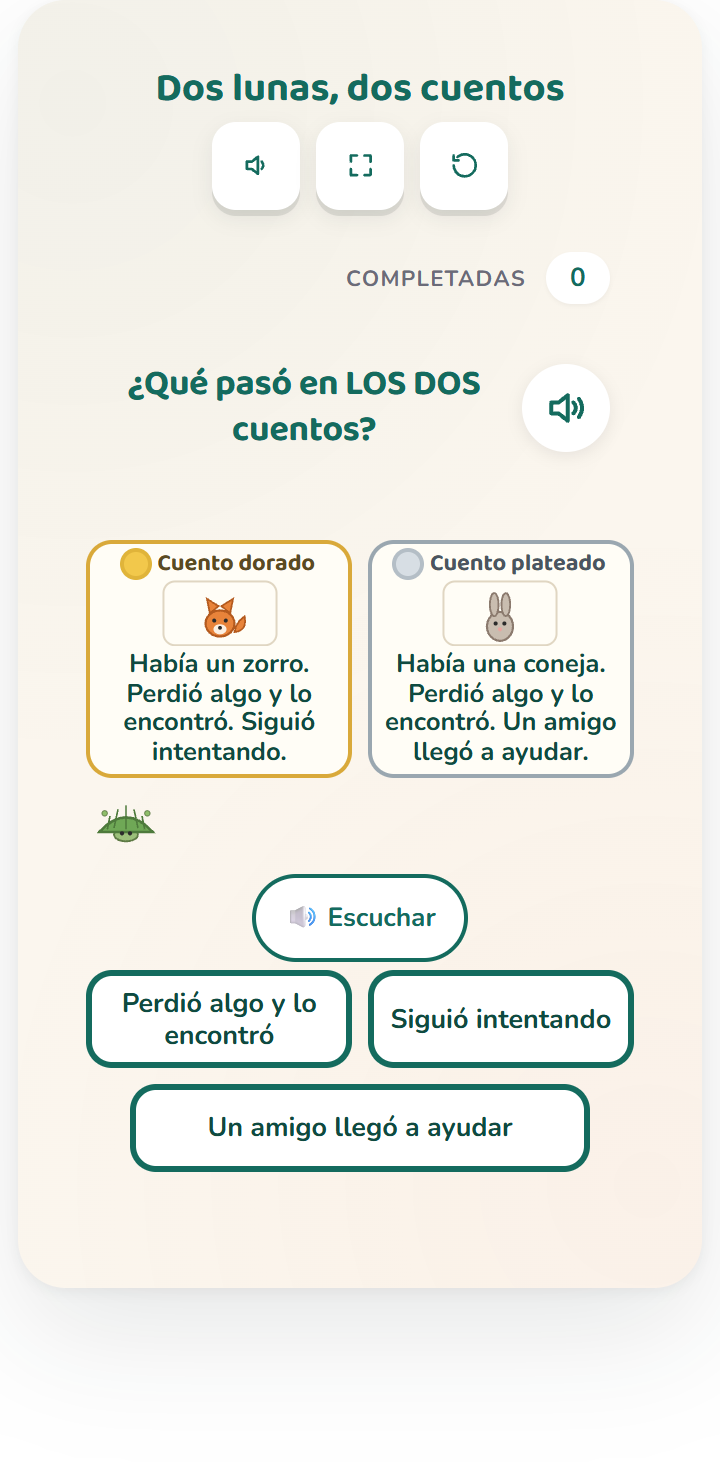
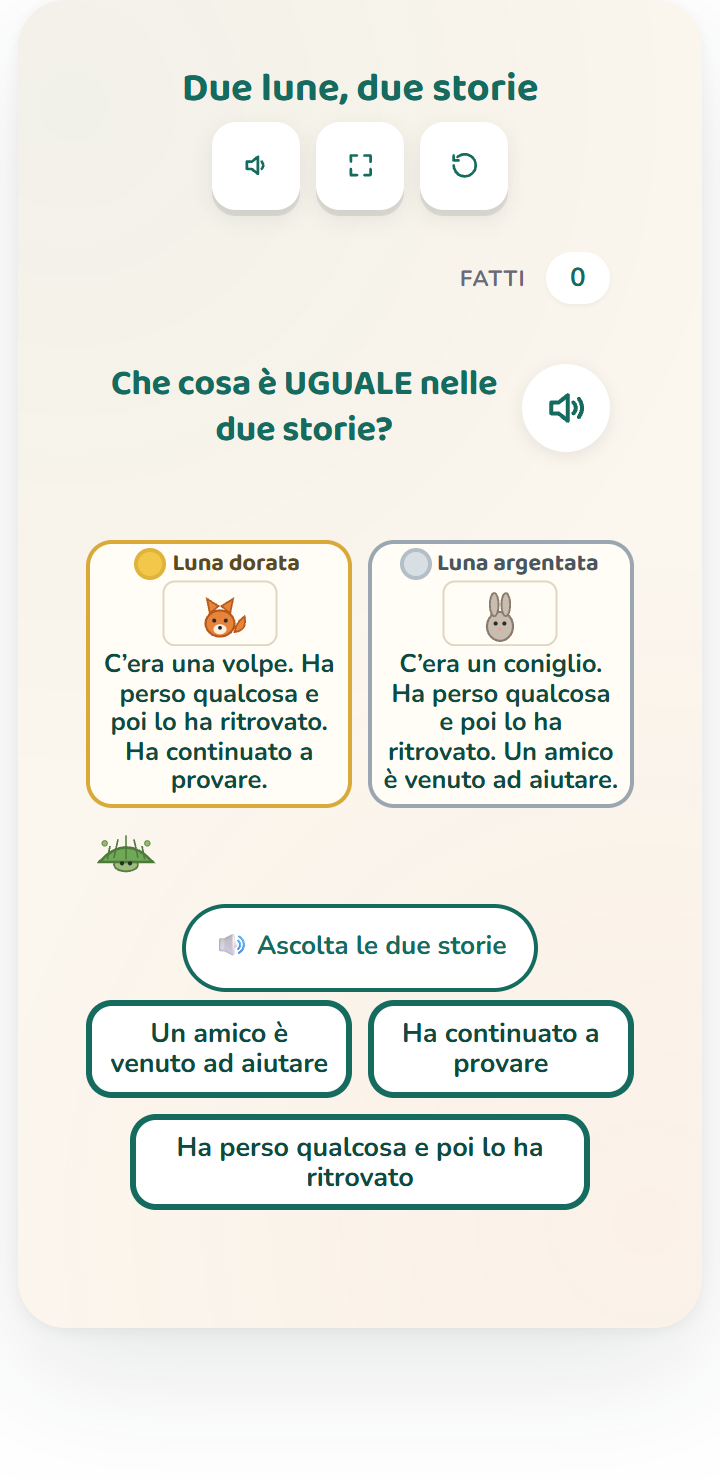
[FEATURE][I18N][IT] two-tales #96 — Due lune, due storie (confrontare due storie: uguale/diverso / Comprensione di testi narrativi, classe seconda)
Italian fan-out of the RL.1.9 compare-two-stories activity (rebuild for the
Indicazioni nazionali, framework name only). Activity-layer only: L.it (10
keys) + strings.title/instruction/q.it (mascot «Barbamuschio»); manifest
tagTextL10n.it (6 experience labels; SHARED trimmed to «Ha condiviso» per
pedagogue, distinct from GOT_HELP) + storiesL10n.it (6 summaries reusing the
tag labels verbatim, gender-neutral avere+PP) + slug/page_title/page_intro.it;
it.json prose (156 activities); page.tsx GRADE it:'2' (classe seconda, cross-
text comparison) + STRAND it:'Comprensione di testi narrativi' (route override,
strand-names.ts untouched) + wrapper 9.548.

0 lines to two-tales-core.js / lcs-shell.* / Direction-A CSS / strand-names.ts.
§A.13.62 LOCAL DoD green (core-loaded it facts 9/9 rounds, both modes, faithful
summaries; verify-two-tales-core PASS; verify-activity-content-it 156/0-leak;
preflight-routes PASS; tsc clean; visual-qa it+en 54 renders 6 viewports PASS;
personal Read 768/1024/360). NO deploy.

diff --git a/frontend/app/[locale]/activities/[slug]/page.tsx b/frontend/app/[locale]/activities/[slug]/page.tsx
@@ -55,7 +55,7 @@ const GRADE_OVERRIDE: Record<string, Record<string, string>> = {
   'contraction.apostrophe.l-2-2-c': { de: '3', pt: '2' },                // pt REBUILT (apóstrofo não existe em contração pt) como contração OBRIGATÓRIA prep+artigo a→ao/à e em→no/na (NUNCA de→do/da, que é #99 posse) = BNCC "Construção do sistema alfabético e da ortografia" 2º ano; = es 2º / native Grade 2. // Präposition-Artikel-Verschmelzung (in dem → im) — bewusste Analyse setzt Präposition+Artikel als Wortarten voraus (Klasse-3-Lehrplan) → DE Klasse 3 (en Grade 2)
   'hattie-whose-is-it.possessive.l-1-1-b': { de: '3', pt: '2' },         // pt REBUILT (apóstrofo/genitivo-s não existem em pt) como concordância de gênero da contração do/da: "de quem é? da Ana / do Téo" = BNCC Análise linguística/semiótica 2º ano (concordância de gênero + posse via "de", não "em"); grade pela habilidade pt (1º cedo demais), NÃO a Klasse 3 do de (reframe ortográfico). // Namen-Genitiv OHNE Apostroph + Deppenapostroph-Erkennung = Rechtschreib-Regel/Apostroph-Bewusstheit → DE Klasse 3 (en Grade 1)
   'otto-picture-book.which-picture.rl-k-7': { de: '1', es: '1', pt: '1' }, // pt 1º ano — estabelecer relação entre o texto verbal e a ilustração que o representa (BNCC alfabetização, correspondência concreta de estímulo presente: frase visível + 4 imagens visíveis); mais simples que o reconto-de-memória do #97 (2º) → não pode ranquear acima; = es/de. // Bild-Text-Bezug: vorgelesenen Satz dem passenden Bild einer Bildergeschichte zuordnen (bildgestützt, gehört-nicht-gelesen) = Klasse-1-Kerngeschäft; en stays Kindergarten (K-cluster K-label) // es 1.º: relacionar oración e imagen = reconocimiento concreto (SEP/NEM Fase 3, PDA «relaciona el texto con las ilustraciones»); mismo peldaño que picture-story #82/story-spine #92; paridad DE Klasse 1
-  'two-tales.compare.rl-1-9': { de: '2', fr: '2', es: '2', pt: '2' },             // PT 2º ano (= de/fr/es): na BNCC ler+compreender UM texto curto é do 1º; COMPARAR DUAS histórias (semelhanças e diferenças, relacionar experiências de personagens de textos distintos) é meta-compreensão intertextual = 2º (banda EF02LP; carga de dupla-leitura + set-logic igual-nas-duas vs só-numa). Âncora de máquina = CCSS RL.1.9. // zwei erzählende Geschichtenvergleichen (Gemeinsamkeiten/Unterschiede, same-vs-only-one set-logic) = intertextueller Textvergleich → DE Klasse 2 (en Grade 1). FR CE1: comparer/mettre-en-relation DEUX textes LUS = attendu CE1 (le CP = décodage + comprendre UN texte court); native '1' does NOT auto-map to CP; un cran au-dessus de willow #45 (RL.K.9, GS, ENTENDU)
+  'two-tales.compare.rl-1-9': { de: '2', fr: '2', es: '2', pt: '2', it: '2' },             // IT classe seconda (= de/fr/es/pt): comparare DUE testi narrativi (uguale nelle due / in una sola, set-logic) è operazione INTERTESTUALE; la classe 1 (Lettura) si ferma a comprendere UN testo breve; traguardo cl.2 «Legge testi narrativi… cogliendo… le relazioni tra gli elementi». native '1' NON auto-mappa a classe 1. Ancora di macchina = CCSS RL.1.9. // PT 2º ano (= de/fr/es): na BNCC ler+compreender UM texto curto é do 1º; COMPARAR DUAS histórias (semelhanças e diferenças, relacionar experiências de personagens de textos distintos) é meta-compreensão intertextual = 2º (banda EF02LP; carga de dupla-leitura + set-logic igual-nas-duas vs só-numa). Âncora de máquina = CCSS RL.1.9. // zwei erzählende Geschichtenvergleichen (Gemeinsamkeiten/Unterschiede, same-vs-only-one set-logic) = intertextueller Textvergleich → DE Klasse 2 (en Grade 1). FR CE1: comparer/mettre-en-relation DEUX textes LUS = attendu CE1 (le CP = décodage + comprendre UN texte court); native '1' does NOT auto-map to CP; un cran au-dessus de willow #45 (RL.K.9, GS, ENTENDU)
   'linc-fact-chain.connect.ri-k-3': { de: '2', fr: '2', es: '2', pt: '2', it: '2' },       // IT classe seconda (pedagogue-decisive, override del native 'K'; = de/fr/es/pt): cogliere le RELAZIONI temporali (successione) e causali (causa-effetto) fra due informazioni = obiettivo Lettura del biennio «individua le informazioni principali e le loro relazioni (temporali e causali)»; la classe prima si ferma a decodifica + comprensione letterale (nessun nesso ancora). // PT 2º ano (= de/fr/es): na BNCC a *relação de causa e efeito* + a *sequência lógica dos fatos* (segurar duas proposições + inferir a relação, rejeitando iscas verdadeiras-mas-sem-ligação) é do 2º ano — acima do 1º (localizar informação explícita / consolidação da decodificação); não 3º (sem síntese de vários parágrafos). K-cluster content-drives-higher. Âncora de máquina = CCSS RI.K.3. // Sachverhalte verknüpfen (Reihenfolge + Ursache-Wirkung) — Kausalschluss über zwei Sachtext-Aussagen = DE Klasse 2 (en Kindergarten); K-cluster content-drives-higher. FR CE1: relier deux faits (séquence/cause) sur 3 options-phrases LUES, aucune image = mettre en relation deux informations + raisonnement causal → CE1; parité DE Klasse 2 (contraste wake-up-pip RL → CP, étayé par images/mémoire)
   'marlo-magnifier.trait-evidence.rl-1-3': { de: '3', fr: '2', es: '3', pt: '3', it: '3' },  // IT classe terza (pedagogue-decisive; = de/es/pt, CONTRO fr=2): la competenza è INFERENZA basata su prove (dedurre un tratto implicito da un'azione + distinguere la prova da un dettaglio solo-vero) = comprensione relazionale, NON recupero letterale; traguardo Lettura terza «…individuando le informazioni principali e LE LORO RELAZIONI». La classe seconda consolida ancora decodifica/letterale; fr=CE1/2 riflette gli attendus francesi, non vincola l'italiano. // PT 3º ano (= de+es; NÃO o fr=CE1/2 — reflete os attendus franceses, não a BNCC). Na BNCC o bloco EF35LP04 (inferir informações implícitas) começa no 3º ano; o EF12LP (1º-2º) é localizar informações EXPLÍCITAS (literal). Isto NÃO é literal — a prova é uma AÇÃO que nunca nomeia o traço, então a criança INFERE a característica do comportamento + comprova com uma passagem (EF35LP04 + EF35LP26 personagem) = 3º+. ⭐ split content-driven: mais alto que os irmãos RL-read de 1º (#82/#89/#92 = localizar/colocar). Âncora de máquina = CCSS RL.1.3. // Charaktereigenschaft aus einer Handlung erschließen + mit Textstelle belegen = schlussfolgerndes Lesen/Textbeleg → DE Klasse 3 (en Grade 1); #84/#91/#93 evidence-ladder; FR CE1: inférer un trait + justifier par un indice = attendu CE1 (« formuler des inférences / justifier son interprétation en s'appuyant sur le texte »), PAS la compréhension littérale CP
   'marina-headline-desk.main-topic.ri-2-2': { de: '3', fr: '3', es: '3', pt: '3', it: '3' },  // IT classe terza (pedagogue-decisive, on the Indicazioni not reflex): traguardo Lettura al termine della classe terza «Leggere testi (…INFORMATIVI) cogliendo l'argomento… e individuando le INFORMAZIONI PRINCIPALI E LE LORO RELAZIONI» — primo obiettivo che nomina i testi informativi + l'operazione di gerarchizzare tema-principale vs dettaglio subordinato; la classe seconda consolida ancora decodifica/recupero letterale. = de/fr/es/pt. // PT 3º ano (converge de/fr/es): na BNCC o movimento de HIERARQUIZAR — separar o assunto principal de um detalhe subordinado (a carta de MAIOR sobreposição de palavras é o detalhe) — está na banda 3º+ (EF35LP03); o 2º ano ainda consolida o reconhecimento da ideia central, e a isca "detalhe verbatim" torna isto uma tarefa metatextual de ordem superior = 3º. Âncora de máquina = CCSS RI.2.2. // Hauptthema eines Sachtexts — topic-vs-detail is the metatextual/higher-order skill (Wesentliches vom Detail unterscheiden) → DE Klasse 3 (en Grade 2). FR CE2: identifier le sujet principal + le distinguer d'un détail (le foil « détail » cite le texte exprès) = « distinguer l'essentiel du détail », compétence métatextuelle → CE2; parité DE Klasse 3
@@ -156,7 +156,7 @@ const STRAND_OVERRIDE: Record<string, Record<string, string>> = {
   'field-guide.text-features.1-ri-5': { de: 'Lesen – mit Texten und Medien umgehen', fr: 'Lecture et compréhension de l’écrit', es: 'Búsqueda y manejo de información', pt: 'Práticas de estudo e pesquisa', it: 'Ricerca e uso delle informazioni' }, // IT (pedagogue): navigare l'apparato del libro per LOCALIZZARE le informazioni = «leggere per ricercare» (Indicazioni), distinto da #78 «Comprensione di testi informativi». // PT 2º ano: campo das PRÁTICAS DE ESTUDO E PESQUISA (BNCC) — usar os organizadores do texto (sumário/títulos/glossário/legendas) para LOCALIZAR uma informação num guia de campo de criaturas imaginárias; a criança não compreende o conteúdo, só opera o "mapa" do livro (Gate 1 LOCALIZAR, análogo ao es "Búsqueda y manejo de información"/de media-Bereich). NÃO "Compreensão de textos informativos" (#78 atlas = compreender) NEM "Estratégia de leitura" (amplo demais). Best-fit EF15LP03 (localizar informações explícitas, 1º-5º; stretch — organizadores específicos só no 4º-5º EF04LP20/EF05LP22). Âncora de máquina = CCSS 1.RI.5. // ES: SPLIT del chip de comprensión (modelo ALEMÁN, no francés). El fr colapsó PORQUE el francés no tiene dominio de medios/textos aparte; el ESPAÑOL SÍ lo tiene: el ámbito de ESTUDIO del SEP lleva la práctica social «búsqueda y manejo de información», que es literalmente usar el índice/los títulos/el glosario para LOCALIZAR — y abarca fuentes impresas Y DIGITALES (cubre la ronda del menú de forma nativa). Colapsar a «Comprensión de textos informativos» etiquetaría mal: el niño NUNCA tiene que entender qué ES un frell, solo operar el aparato de búsqueda del libro. NO «Estrategias de lectura» (demasiado amplio: predecir/inferir → se traslaparía con comprensión y perdería la especificidad de localizar). ⚠ ESTO AMPLÍA la regla RI/RL es fijada en atlas #78 (que tenía UN eje: modalidad) — regla vigente de 2 compuertas, EN ORDEN: (1) ¿COMPRENDER o LOCALIZAR? localizar → «Búsqueda y manejo de información» (sin importar modalidad); comprender → (2) ¿LEE o ESCUCHA? lee → «Comprensión de textos informativos» (RL: «…de textos literarios»); escucha → «Escucha y comprensión de textos». Aditiva: no altera ningún hermano ya shipeado. 🚩 Candidato de reconciliación futuro (NO relitigar aquí): booker #75 shipeó «Ortografía» pero consultar el diccionario para ENCONTRAR una palabra es localizar. // FR CE1: utiliser les outils d'un texte documentaire (sommaire/glossaire/index/titres) pour trouver une information = stratégie de lecture (« Pratiquer différentes formes de lecture / se repérer dans un texte ») au sein du domaine cycle-2 « Lecture et compréhension de l'écrit »; le français n'a PAS de domaine « manipuler textes et médias » séparé (contrairement à l'allemand « Lesen – mit Texten und Medien umgehen »); = atlas #57 / bea #50; "Reading: Informational Text" has no fr in strand-names.ts; en/de fall through
   'atlas-fact-files.key-detail.ri-k-1': { fr: 'Lecture et compréhension de l’écrit', es: 'Comprensión de textos informativos', pt: 'Compreensão de textos informativos', it: 'Comprensione di testi informativi' }, // PT: READ (a criança decodifica sozinha) → eixo Leitura/escuta, prática de compreensão em leitura → "Compreensão de textos informativos" (NÃO o eixo cru "Leitura/escuta", que funde leitura+escuta — a distinção de modalidade é justamente o que o override marca; NÃO colide com o chip de fonética/RF). Route-override, NÃO strand-names.ts (o eixo depende da MODALIDADE lido-vs-ouvido, propriedade da atividade). Regra futura pt RI/RL: READ→"Compreensão de textos informativos" (RL: "…de textos literários") / HEARD→"Escuta e compreensão de textos". // FR CP: prélever une information explicite dans un court texte documentaire AFFICHÉ (lu par soi-même) = compréhension LITTÉRALE, attendu cycle-2 « Lecture et compréhension de l'écrit »; NOT « Comprendre et interpréter » (sur-revendique l'inférence — ici récupération verbatim, aucune interprétation); NOT « Écouter de l'écrit et comprendre » (label GS/pré-lecteur — willow/nila/story-spine, texte ENTENDU); "Reading: Informational Text" has no fr in strand-names.ts (would leak EN); en/de fall through. ES (operator-ruled): per-activity override como el fr, NO entry en strand-names.ts — en SEP el eje lo decide la MODALIDAD DE ACCESO al texto (leído vs escuchado), una propiedad de la ACTIVIDAD, no del strand; una entry de tabla etiquetaría mal a los hermanos narrados (nila-pond RI.K.2 = texto LEÍDO EN VOZ ALTA → «Escucha y comprensión de textos»). REGLA para las ~6 RI/RL futuras es: clasificar lee-vs-escucha primero → lee = «Comprensión de textos informativos» (RL: «…de textos literarios»); escucha = «Escucha y comprensión de textos». NO usar «Comprensión lectora»: ya es el chip es de "Reading: Foundational Skills" (fonética) en 5 actividades vivas — colisión + ese mapeo RF está MAL (debería ser «Alfabetización inicial»; comisión aparte, 5 actividades)
   'bea-two-bookshelves.story-or-fact.rl-1-5': { de: 'Lesen – mit Texten und Medien umgehen', fr: 'Lecture et compréhension de l’écrit', es: 'Diversidad textual', pt: 'Gêneros textuais', it: 'Tipologie testuali' }, // IT (pedagogue): riconoscere il TIPO di testo (narrativo vs informativo) = «Tipologie testuali» (il livello grossolano, il termine delle Indicazioni; NON «Generi» = sotto-classificazione più fine); distinto da #78 comprensione + #80 ricerca. // PT 1º ano (sem grade override; native RL.1.5 G1, harmoniza de Klasse 1/es 1.º/fr CP). STRAND route override "Gêneros textuais" (NOT strand-names.ts 'Reading: Literature'): Gate-0 (§20.9 3-gate) — o objeto de aprendizagem é o TEXTO EM SI, classificar o gênero (história vs livro de verdade) pelas pistas de superfície da capa, sem compreender o conteúdo; termo-organizador da BNCC LP (gêneros textuais/discursivos), preferido ao es "Diversidad textual" (descritor mais solto). BNCC eixo Leitura; best-fit EF15LP01 (função social/finalidade do texto). NÃO "Compreensão de textos…" (#80 + reservado p/ compreensão de conto real) NEM "Práticas de estudo e pesquisa" (#80 field-guide LOCATE). Âncora de máquina = CCSS RL.1.5. // ES: NUEVA cubeta. El tell decisivo: la compuerta 2 de la regla pregunta «¿el niño LEE o ESCUCHA EL TEXTO?» — en singular; aquí hay TRES textos de DOS clases y la CLASE es el aprendizaje. NO «Comprensión de textos literarios» (en la mitad de las rondas lo correcto es RECHAZAR el libro literario); NO «Comprensión de textos informativos» (el niño nunca aprende nada de lo que dice el libro de datos); NO «Búsqueda y manejo de información» (la respuesta tentadora + el patrón alemán literal: elegir una fuente SÍ es práctica del ámbito de Estudio, pero solo en las 4 rondas de datos — las 4 de cuento son Literatura pura → cruza AMBOS ámbitos y no pertenece a la práctica social de ninguno; además #80 ya posee ese chip para un acto distinto); NO «Estrategias de lectura» (ya rechazado en #80 por amplio). «Diversidad textual» = el término SEP/NEM vivo de este campo (los textos vienen en clases, cada una con un propósito; el niño arma su repertorio textual desde el acervo), se lee como EJE para una maestra mexicana y es consistente con el léxico de chips. ⚠ AMPLÍA la regla es RI/RL otra vez — regla vigente de 3 COMPUERTAS, EN ORDEN: (0) ¿el objeto del aprendizaje es el TEXTO MISMO (qué tipo es, para qué sirve) o su CONTENIDO? el texto mismo → «Diversidad textual»; el contenido → (1). 🔒 GUARDRAIL de la compuerta 0: solo dispara cuando el niño NO necesita entender lo que el texto DICE — clasifica por pistas de superficie (título/portada/formato); si hace falta entender el contenido, es la compuerta 1 (esto es lo que mantiene a #80 en la 1). La 0 va PRIMERO: puesta al final nunca se alcanzaría — «clasificar por tipo» se colaría en la 1 como un «comprender» difuso y etiquetaría mal. (1) ¿COMPRENDER o LOCALIZAR? localizar → «Búsqueda y manejo de información». (2) ¿LEE o ESCUCHA? lee → «Comprensión de textos informativos» (RL: «…de textos literarios»); escucha → «Escucha y comprensión de textos». ⚠ «Comprensión de textos literarios» queda SIN USAR — reservado para la primera actividad de comprensión de CUENTO real (personajes/trama/mensaje); bea NO la consume. ⚠ NO añadir `es` a la fila `Reading: Literature` de strand-names.ts: etiquetaría mal a bea Y a todo hermano narrado futuro. // FR CP: reconnaître le type d'un livre — distinguer un récit d'un texte documentaire (« reconnaître les principaux genres de textes ») = compétence cycle-2 dès le CP, domaine « Lecture et compréhension de l'écrit »; NOT « Comprendre et interpréter » (= extraire/interpréter le SENS dans un texte; ici on CLASSE le texte par genre depuis les indices de couverture); "Reading: Literature" has no fr in strand-names.ts; en/de fall through
-  'two-tales.compare.rl-1-9': { fr: 'Lecture et compréhension de l’écrit', es: 'Comprensión de textos literarios', pt: 'Compreensão de textos literários' }, // PT route override "Compreensão de textos literários" (= picture-story #82 / point-of-view #89 / story-spine #92 / marlo #94): COMPREENDE (compara duas narrativas, não localiza) + LÊ (as duas histórias exibidas como texto, 🔊 apoio); campo artístico-literário. NÃO Ampliação do vocabulário (sem foco lexical). Route override, NÃO strand-names.ts ('Reading: Literature' só en/de → vazaria EN). // ES «Comprensión de textos literarios» (STRAND_OVERRIDE por-actividad; NO strand-names.ts): 2 compuertas → (1) comprende (COMPARA dos cuentos, no localiza); (2) LEE (los dos cuentos se muestran como texto + audio-apoyo — precedente story-spine #92). Ambos cuentos literarios → mismo chip que picture-story #82/juniper #85/story-spine #92/marlo #94. // FR CE1: comparer deux histoires (ce qui est pareil / ce qui arrive dans une seule) = mise-en-relation sur indices EXPLICITES (« a perdu… retrouvé » → « Perdu, puis retrouvé »), reconnaissance/classification d'un événement narré, PAS de l'inférence → domaine cycle-2 « Lecture et compréhension de l'écrit » (= bea #50/atlas #57/field-guide #58/author-purpose #61); NOT « Comprendre et interpréter » (retell #49/fable #52/portrait #56); "Reading: Literature" has no fr in strand-names.ts; en/de fall through
+  'two-tales.compare.rl-1-9': { fr: 'Lecture et compréhension de l’écrit', it: 'Comprensione di testi narrativi', es: 'Comprensión de textos literarios', pt: 'Compreensão de textos literários' }, // IT «Comprensione di testi narrativi» (route override; NON strand-names.ts, 'Reading: Literature' solo en/de → vazerebbe EN): 2 gate → (1) COMPRENDE (confronta due narrazioni, non localizza); (2) LEGGE (le due storie mostrate come testo + supporto 🔊). Testi letterari → stesso chip di picture-story #82 / point-of-view #89 / story-spine #92 / marlo #94. NON «Comprensione e interpretazione» (calco fr). // PT route override "Compreensão de textos literários" (= picture-story #82 / point-of-view #89 / story-spine #92 / marlo #94): COMPREENDE (compara duas narrativas, não localiza) + LÊ (as duas histórias exibidas como texto, 🔊 apoio); campo artístico-literário. NÃO Ampliação do vocabulário (sem foco lexical). Route override, NÃO strand-names.ts ('Reading: Literature' só en/de → vazaria EN). // ES «Comprensión de textos literarios» (STRAND_OVERRIDE por-actividad; NO strand-names.ts): 2 compuertas → (1) comprende (COMPARA dos cuentos, no localiza); (2) LEE (los dos cuentos se muestran como texto + audio-apoyo — precedente story-spine #92). Ambos cuentos literarios → mismo chip que picture-story #82/juniper #85/story-spine #92/marlo #94. // FR CE1: comparer deux histoires (ce qui est pareil / ce qui arrive dans une seule) = mise-en-relation sur indices EXPLICITES (« a perdu… retrouvé » → « Perdu, puis retrouvé »), reconnaissance/classification d'un événement narré, PAS de l'inférence → domaine cycle-2 « Lecture et compréhension de l'écrit » (= bea #50/atlas #57/field-guide #58/author-purpose #61); NOT « Comprendre et interpréter » (retell #49/fable #52/portrait #56); "Reading: Literature" has no fr in strand-names.ts; en/de fall through
   'picture-story.read.rl-k-1': { fr: 'Lecture et compréhension de l’écrit', es: 'Comprensión de textos literarios', pt: 'Compreensão de textos literários', it: 'Comprensione di testi narrativi' }, // IT (pedagogue): comprensione di una STORIA narrativa = «Comprensione di testi narrativi» (plurale, specchio esatto di #78 atlas «Comprensione di testi informativi»; narrativi↔informativi è la coppia canonica delle Indicazioni). Scelto narrativi non letterari (letterari = registro scuola secondaria; narrativi = termine di classe prima). Route override page.tsx NON strand-names.ts (il strand 'Reading: Literature' custodisce anche i fratelli ASCOLTATI story-spine/willow/otto → una entry li etichetterebbe male; = es/fr/pt). // PT route override "Compreensão de textos literários" (NÃO strand-names.ts): CONTEÚDO não texto-em-si; COMPREENDER não LOCALIZAR (sem aparato de busca, material literário, conjunto inclui ordem/porquê/sentimento — nenhum escaneável); LER não ESCUTAR. 1ª atividade no eixo LITERATURA (vs #78/#80 informacional/estudo). Route-level porque o strand 'Reading: Literature' compartilhado também guarda narrações ESCUTADAS → "Escuta e compreensão de textos"; o eixo é definido pela modalidade de acesso. Best-fit EF15LP03 (order/why/feeling inferenciais → stretch leve, EF15LP04 co-fit). Âncora de máquina = CCSS RL.K.1. // ES: **el chip RESERVADO por fin DISPARA.** Recorrido de las 3 compuertas: (0) ¿el TEXTO MISMO o su CONTENIDO? → CONTENIDO (el niño debe entender lo que el cuento DICE; el guardrail es explícito) → NO «Diversidad textual». (1) ¿COMPRENDER o LOCALIZAR? → COMPRENDER; la respuesta tentadora es «localizar» porque quién/qué/dónde parecen recuperación literal — se rechaza: «Búsqueda y manejo de información» es la práctica del ámbito de Estudio de operar el APARATO DE BÚSQUEDA de una fuente (índice/glosario/menú), que posee #80; aquí NO hay aparato ni fuente que navegar y el material es literario. **Tell decisivo: el set incluye ORDEN, POR QUÉ y EMOCIÓN — ninguna es escaneable; cada una exige sostener el cuento completo.** (2) ¿LEE o ESCUCHA? → LEE (ver GRADE_OVERRIDE) → «Comprensión de textos literarios». 1.ª actividad es que aterriza limpia en el ámbito de LITERATURA (atlas #78 y field-guide #80 viven en ESTUDIO) — por eso la cubeta reservada dispara ahora y no antes. ⚠ **Per-activity override; strand-names.ts queda BYTE-IDÉNTICO para es.** El alemán SÍ metió entry de tabla (`Reading: Literature`→de); es NO puede — y produciría un MISLABEL VIVO, no hipotético: el strand `Reading: Literature` ya contiene `story-spine.role.rl-k-3` y `willow-story-corner.compare-tales.rl-k-9`, actividades NARRADAS donde el niño ESCUCHA y sin override es → una entry las estamparía «Comprensión de textos literarios» cuando pertenecen a «Escucha y comprensión de textos» [⚠ SUPERSEDED 2026-07-21 para story-spine: #92 shipeó es LEE=«Comprensión de textos literarios» (operator-ratificado, modalidad de LECTURA — pies mostrados + barajado que obliga a leer); story-spine NO es «Escucha». otto/willow se clasifican por su propia modalidad al construirse] (y también contiene bea #81, protegida por su propio override — lo que prueba que strand ≠ eje). Razón estructural (ratificada en #78): en SEP el eje lo decide la MODALIDAD DE ACCESO, propiedad de la ACTIVIDAD, no del strand; el alemán puede permitirse la tabla porque en KMK el Bereich SÍ es propiedad del strand. El fr hizo exactamente esto. // FR CP: lire une courte histoire en 3 vignettes (texte affiché + audio d'appui) et répondre à des questions de détail clé en LISANT les 3 cartes-réponses = compréhension de l'écrit lu (surface-réponse textuelle → CP, le jumeau RL d'atlas #57 RI); NOT « Écouter de l'écrit et comprendre » (GS/pré-lecteur, réponse non-textuelle — otto #59/story-spine/willow/nila); "Reading: Literature" has no fr in strand-names.ts (would leak EN); en/de fall through
   'pearl-opinion-page.back-it-up.ri-2-8': { fr: 'Lecture et compréhension de l’écrit', it: 'Comprensione di testi informativi', es: 'Comprensión de textos argumentativos', pt: 'Compreensão de textos de opinião' }, // PT chip NOVO "Compreensão de textos de opinião" (route override; 1ª atividade pt neste chip). Segue a divergência-tipológica argumentativa do es: pearl = OPINIÃO + RAZÃO = texto ARGUMENTATIVO/persuasivo, NÃO informativo neutro → a tipologia manda → DIVERGE de marina #91 / atlas #78 ("…informativos"). ⭐ Pedagogo escolheu "de opinião" (NÃO "argumentativos"): o termo VIVO da BNCC nos anos iniciais é *texto de opinião* (campo jornalístico-midiático/vida pública); "argumentativos" é BNCC-válido mas pende para anos finais (tese/contra-argumento). NÃO strand-names.ts ('Reading: Informational Text' só en/de → vazaria EN). // ES «Comprensión de textos argumentativos» (STRAND_OVERRIDE por-actividad; NO strand-names.ts) — OPERATOR-RATIFICADO 2026-07-21 (chip es NUEVO). pearl es un texto de OPINIÓN + RAZÓN (argumentativo/persuasivo), NO informativo neutro. Las 2 compuertas dan comprende+lee, PERO la TIPOLOGÍA argumentativa manda: el campo Lenguajes de la NEM clasifica los textos por su función y separa informar de convencer/opinar → NO «Comprensión de textos informativos» (marina #91/atlas #78). DIVERGE de marina/atlas + del alemán (que colapsó lo argumentativo en Sachtexte); precedente: author-purpose #84 ya diverge a «Diversidad textual» cuando la tipología lo exige. // FR CE2: reconnaître la RAISON qui justifie un avis (« parce que » + une info nouvelle) vs la REDITE (répète les mots de l'avis) vs le HORS-SUJET = reconnaissance de la fonction argumentative sur indices EXPLICITES de surface, PAS de l'inférence → domaine cycle-2 « Lecture et compréhension de l'écrit » (= author-purpose #61/atlas #57/field-guide #58/bea #50/two-tales #62); NOT « Comprendre et interpréter » (retell #49/fable #52/portrait #56); "Reading: Informational Text" has no fr in strand-names.ts (would leak EN); en/de fall through
   'wake-up-pip.retell-story.rl-k-2': { fr: 'Comprendre et interpréter', es: 'Comprensión de textos literarios', pt: 'Compreensão de textos literários' }, // pt: campo artístico-literário; criança COMPREENDE+reconstrói+LÊ captions (audio-apoio, story-spine #92) não oraliza → compreensão leitora; mesmo chip que #82/#89/#92/#94/#96; route override (strand-names.ts 'Reading: Literature' só en/de → fuga EN). // es 2.º: comprende (reconstruye+recuenta) + LEE (captions mostrados + audio-apoyo, regla story-spine #92) → RL literaria; misma familia RL-es; strand-names.ts NO tocado (RL solo en/de → fuga inglés) // FR CP: reconstruire/raconter un récit dans l'ordre avec les détails clés = compréhension de la structure/l'ordre d'un récit → « Comprendre et interpréter » (cycle 2, Lecture et compréhension de l'écrit); NOT « Écouter de l'écrit et comprendre » (maternelle/GS — misplace le niveau CP); the child REORDERS pictures (n'oralise pas) → comprehension not oral production; "Reading: Literature" has no fr in strand-names.ts
@@ -556,7 +556,7 @@ export default async function ActivityPage({ params }: { params: PageParams }) {
   // applied here to the iframe-loaded wrapper URL (the only un-busted
   // link in the activity-page → mini-tool chain). The wrapper reads
   // only `activity` / `lang` / `embed` params; `v` is harmless to it.
-  const ACTIVITY_WRAPPER_VERSION = '9.547';
+  const ACTIVITY_WRAPPER_VERSION = '9.548';
 
   const iframeSrc =
     `/mini-tools/${row.tool}.html?v=${ACTIVITY_WRAPPER_VERSION}` +

diff --git a/mini tools/two-tales-activity.js b/mini tools/two-tales-activity.js
@@ -75,6 +75,19 @@
       reSame: 'Olhe de novo — leia as duas histórias. O que é IGUAL nas duas?',
       reDiff: 'Olhe de novo — leia as duas histórias. O que acontece em só UMA?',
       choices: 'Opções:'
+    },
+    /* it. gold/silver = the two moons (Luna dorata/argentata), matching the title.
+       §A.13.54: win/nudge anchored on «le due storie» (fixed); NO «Bravo/Brava».
+       apostrophe-free JS: «Luna dorata/argentata» (NOT «d'oro/d'argento»); accents à/è/ì/ò/ù + «Sì» fine. */
+    it: {
+      qSame: 'Che cosa è UGUALE nelle due storie?',
+      qDiff: 'Che cosa succede in UNA SOLA storia?',
+      win: 'Sì! {note}', winNote: 'Hai confrontato le due storie!',
+      hear: '🔊 Ascolta le due storie',
+      gold: 'Luna dorata', silver: 'Luna argentata',
+      reSame: 'Guarda di nuovo: che cosa è UGUALE nelle due storie?',
+      reDiff: 'Guarda di nuovo: che cosa succede in UNA SOLA storia?',
+      choices: 'Scelte:'
     }
   };
   function txt(k, a) { var s = (L[LANG] && L[LANG][k]) || L.en[k] || k; return String(s).replace(/\{(\w+)\}/g, function (m, key) { return (a && key in a) ? a[key] : m; }); }
@@ -114,9 +127,9 @@
   var TwoTalesActivity = {
     id: 'two-tales-activity',
     strings: {
-      title: { en: 'Two Moons', de: 'Zwei Monde, zwei Geschichten', fr: 'Deux lunes, deux histoires', es: 'Dos lunas, dos cuentos', pt: 'Duas luas, duas histórias' },
-      instruction: { en: 'Read both tales with Mossbeard, then compare what happened to the characters!', de: 'Lies beide Geschichten mit Moosbart und vergleiche, was den Figuren passiert!', fr: 'Lis les deux histoires avec Barbe-de-Mousse, puis compare ce qui arrive aux personnages !', es: '¡Lee los dos cuentos con Barba de Musgo y compara lo que les pasó a los personajes!', pt: 'Leia as duas histórias com a Barba de Musgo e compare o que aconteceu com os personagens!' },
-      q: { en: '{q}', de: '{q}', fr: '{q}', pt: '{q}' }
+      title: { en: 'Two Moons', de: 'Zwei Monde, zwei Geschichten', fr: 'Deux lunes, deux histoires', es: 'Dos lunas, dos cuentos', pt: 'Duas luas, duas histórias', it: 'Due lune, due storie' },
+      instruction: { en: 'Read both tales with Mossbeard, then compare what happened to the characters!', de: 'Lies beide Geschichten mit Moosbart und vergleiche, was den Figuren passiert!', fr: 'Lis les deux histoires avec Barbe-de-Mousse, puis compare ce qui arrive aux personnages !', es: '¡Lee los dos cuentos con Barba de Musgo y compara lo que les pasó a los personajes!', pt: 'Leia as duas histórias com a Barba de Musgo e compare o que aconteceu com os personagens!', it: 'Leggi le due storie con Barbamuschio e confronta ciò che è successo ai personaggi!' },
+      q: { en: '{q}', de: '{q}', fr: '{q}', pt: '{q}', it: '{q}' }
     },
 
     init: function (api) {

diff --git a/mini tools/two-tales-activity.html b/mini tools/two-tales-activity.html
@@ -17,7 +17,7 @@
        NOTE: bump ?v=N on EVERY change to two-tales-activity.js / -core.js (§A.13.42). -->
   <script src="/mini-tools/lcs-shell.js?v=5"></script>
   <script src="/mini-tools/two-tales-core.js?v=1"></script>
-  <script src="/mini-tools/two-tales-activity.js?v=5"></script>
+  <script src="/mini-tools/two-tales-activity.js?v=6"></script>
   <script>
     LCS.mount(TwoTalesActivity, { mount: '#lcs-root' });
   </script>
